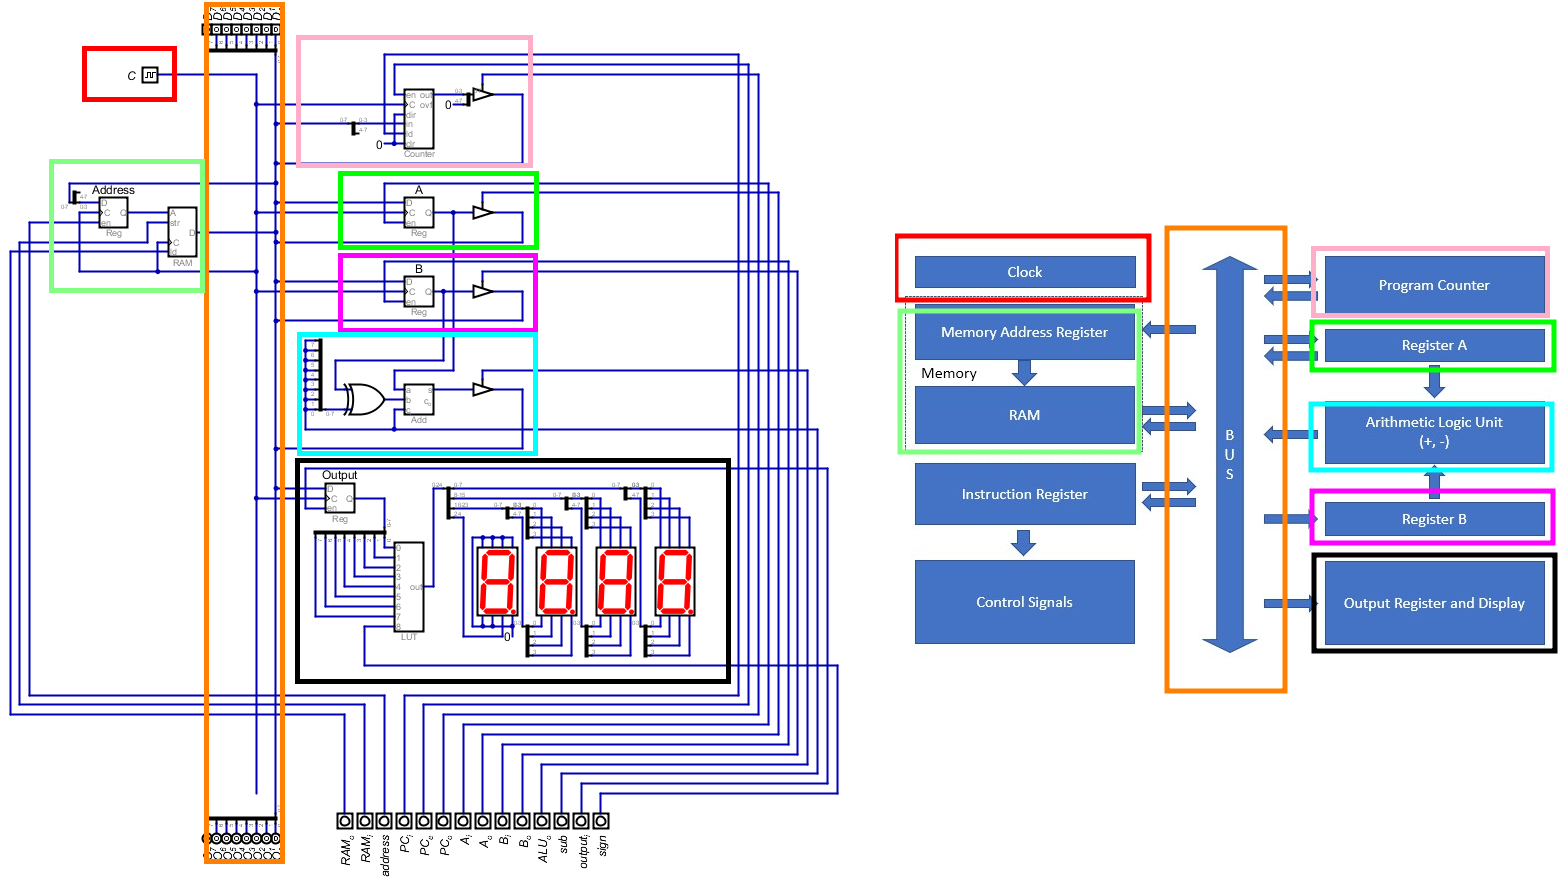
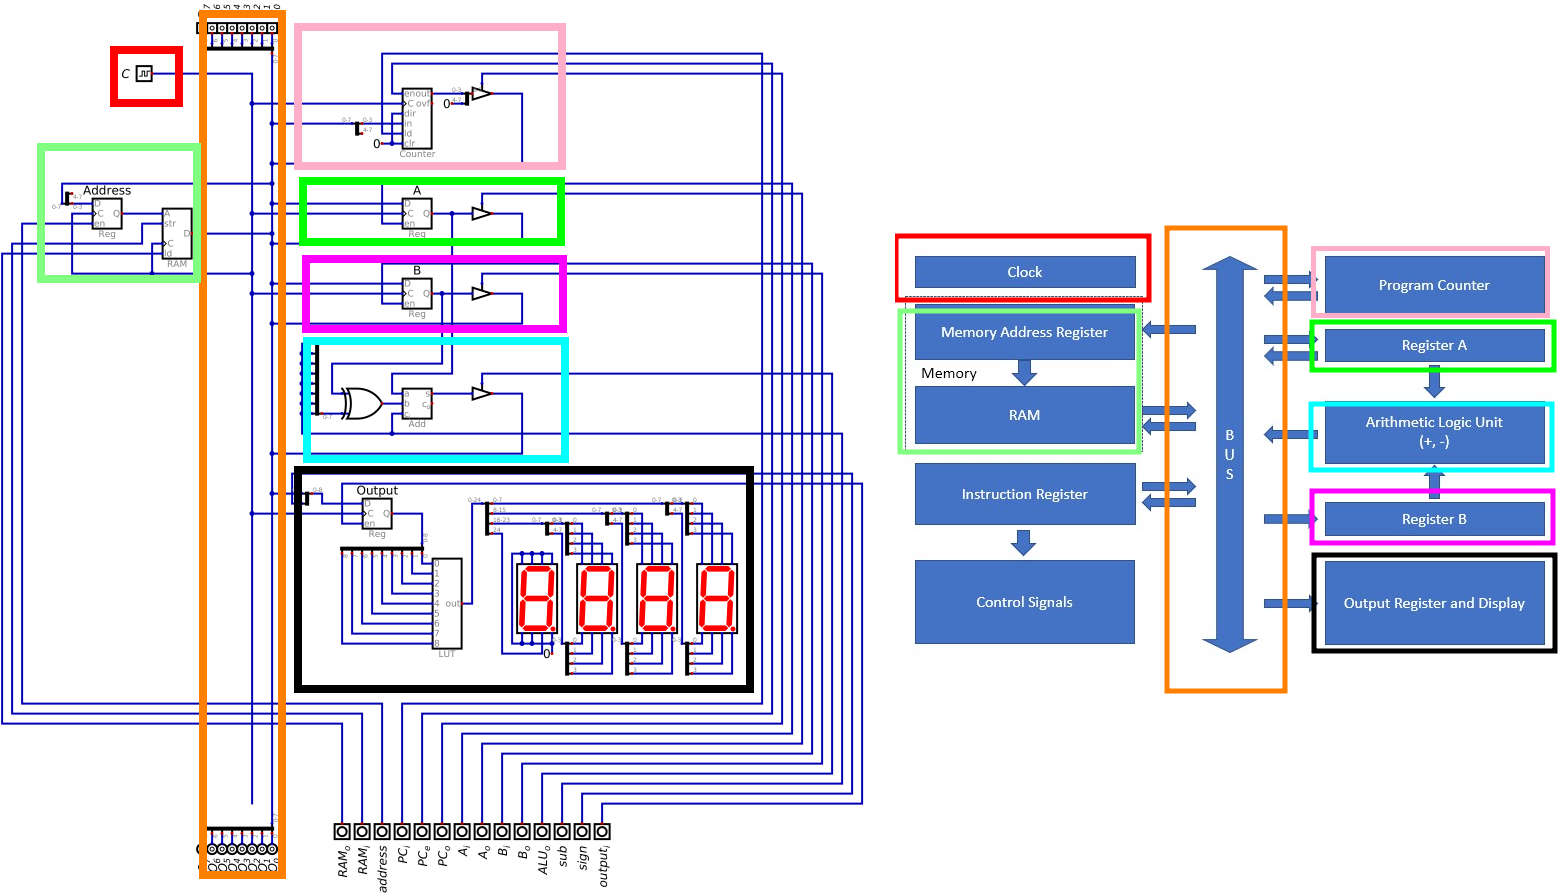
:bug: :art: :mortar_board: Topic output and program counter --- Update content based on fixed output register (#159)

Changed region(s): [[0.0, 0.0, 1.0, 0.9841]]

diff --git a/site/topics/output/output-register.rst b/site/topics/output/output-register.rst
@@ -37,6 +37,17 @@ Output Module
         * When the signal is high, the 8 bits from the output register address 256 -- 511
 
 
+* It is important that the :math:`signed` control signal is included in the output register as a ninth bit
+
+    * For the same reason that the registers exist to store the data and separate it from the data bus
+    * Otherwise, when the control signals on the control bus change, the state of the input to the LUT would change
+
+        * The :math:`signed` signal would likely go low, meaning that a signed int would be output as an unsigned int
+
+
+* However, remember that this ninth bit is not part of the data to be output, but storing the unsigned/signed state
+
+
 
 Including Output in the System
 ==============================
